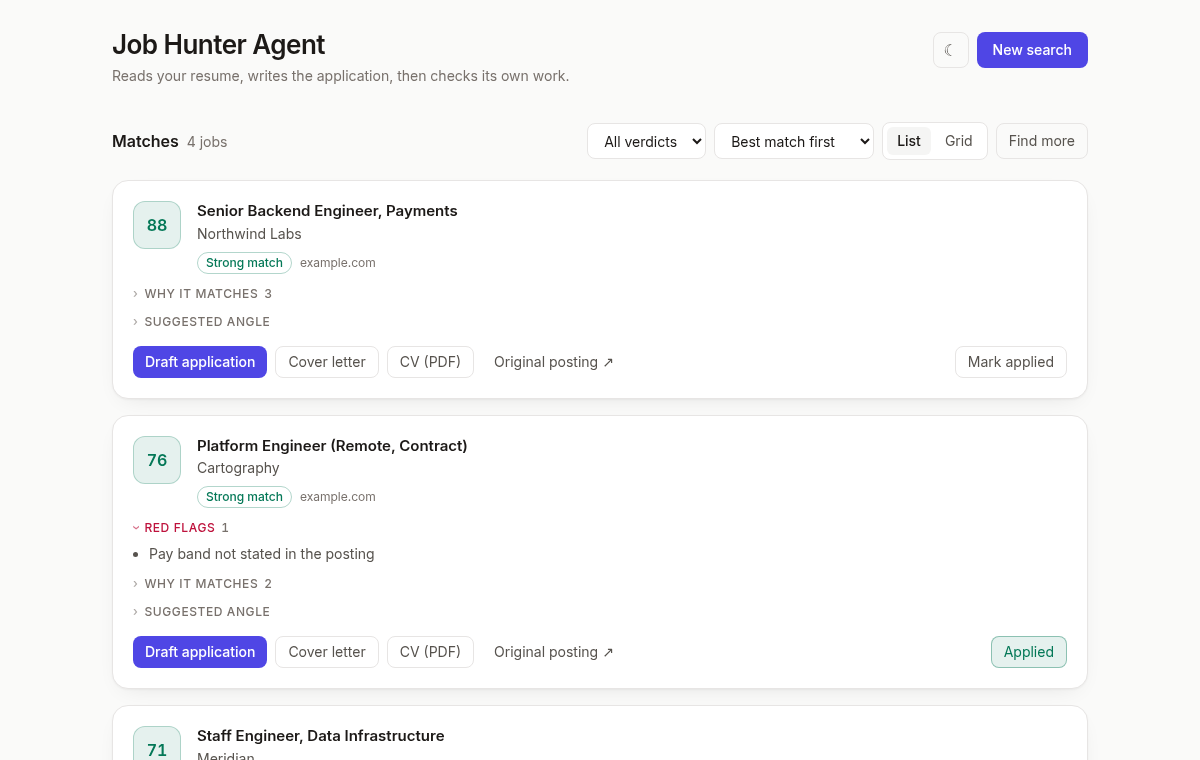
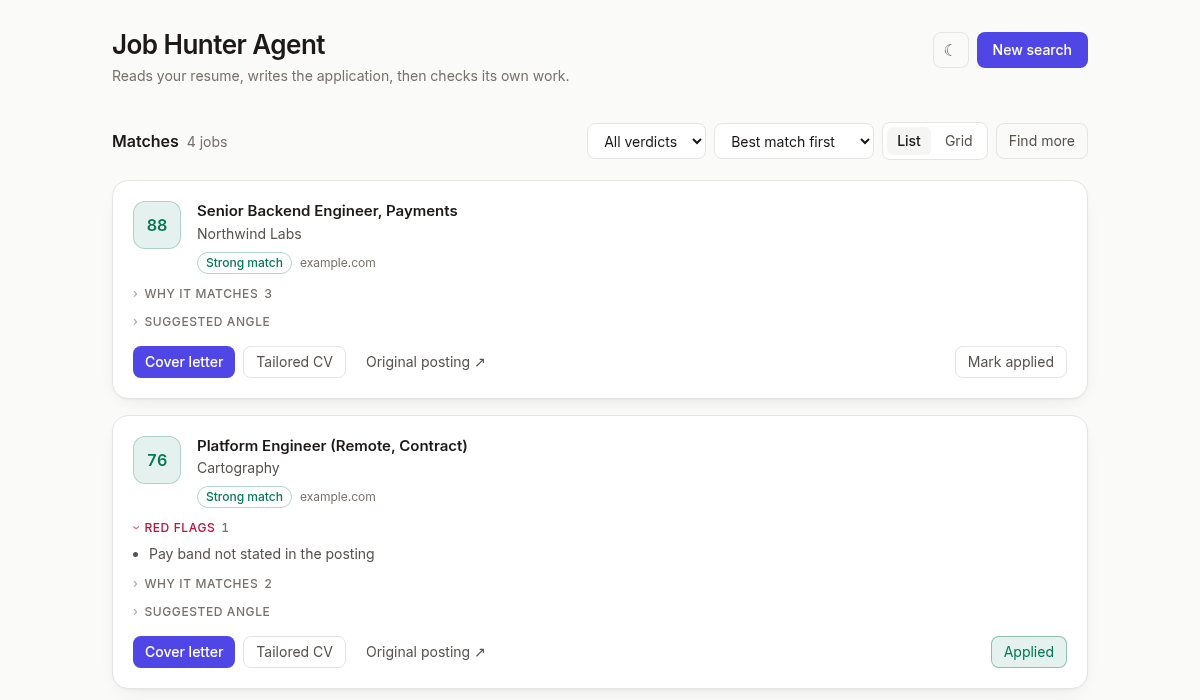
Rewrite the README for the current feature set, in plain English
Documents what changed over the last two sessions: the single Cover
letter button and its three states, Tailored CV, the difference between
Find more and New search (a new search discards the queue, which was
not written down anywhere), preferences, the writing-style rules, and
where every output file lands.

No em dashes anywhere, and plainer sentences throughout. Screenshots
regenerated for both themes since the button labels changed.

diff --git a/README.md b/README.md
@@ -2,26 +2,26 @@
 
 [![Buy Me a Coffee](https://img.shields.io/badge/Buy%20Me%20a%20Coffee-support%20this%20project-FFDD00?logo=buymeacoffee&logoColor=black)](https://buymeacoffee.com/YahyaZekry)
 
-Reads your resume, finds remote jobs worth applying to, and writes the application: a one-page PDF CV per job, and a cover letter on demand.
+Reads your resume, finds remote jobs worth applying to, and writes the application for you. Each match gets a CV rebuilt for that specific posting, and a cover letter whenever you ask for one.
 
-Then it checks its own work. A second Claude reads each letter with fresh context and cuts anything it can't trace back to a line in your resume.
+Then it checks its own work. A second Claude reads every letter with fresh context and removes anything it cannot find in your resume.
 
 <picture>
   <source media="(prefers-color-scheme: dark)" srcset="docs/dashboard-dark.png">
-  <img alt="The dashboard: scored job matches with per-job write, letter, and CV actions" src="docs/dashboard-light.png">
+  <img alt="The dashboard, showing scored job matches with a cover letter and tailored CV button on each card" src="docs/dashboard-light.png">
 </picture>
 
-Works for **any profession** — developer, designer, virtual assistant, writer, accountant. Roles, queries, scoring, and copy all come from your `resume.md`; nothing about your field is hardcoded.
+Works for any profession. Developer, designer, virtual assistant, writer, accountant. Your roles, search queries, scoring and copy all come from your `resume.md`, and nothing about your field is hardcoded.
 
-## Why the review matters
+## Why the fact-check matters
 
-LLMs embellish. On real runs this one caught:
+Language models embellish. On real runs this one caught:
 
-- **"four years"** — the resume said 2021–present, which is five
-- **"available full-time"** — the current role was listed as part-time
-- **a tool claimed as a core skill** — it appeared in the resume's skills list with no project behind it
+- **"four years"** when the resume said 2021 to present, which is five
+- **"available full-time"** when the current role was listed as part-time
+- **a tool claimed as a core skill** that appeared in the skills list with no project behind it
 
-Each is the kind of thing that falls apart in an interview. The reviewer sees only the posting, your resume, and the draft — not its own reasoning for writing it — so it has no stake in defending the text.
+Every one of those falls apart in an interview. The checker only sees three things: the job posting, your resume, and the letter. It never saw the letter being written, so it has no reason to defend it.
 
 ## Quick start
 
@@ -30,61 +30,99 @@ python -m venv .venv && .venv/bin/pip install -r requirements.txt
 cp .env.example .env     # add FIRECRAWL_API_KEY
 ```
 
-Drop your resume at `resume.md` (gitignored, never leaves your machine), then:
+Put your resume at `resume.md`. It is gitignored and never leaves your machine. Then:
 
 ```bash
 .venv/bin/python server.py    # → http://127.0.0.1:8000
 ```
 
-**Needs:** Python 3.10+, the [`claude` CLI](https://claude.com/claude-code) authenticated, a [Firecrawl](https://firecrawl.dev) key.
-**Optional:** [`typst`](https://github.com/typst/typst) for CVs, `pdftotext` (poppler) for the ATS check, an [Exa](https://exa.ai) key for pages Firecrawl can't reach.
+**You need:** Python 3.10+, the [`claude` CLI](https://claude.com/claude-code) signed in, and a [Firecrawl](https://firecrawl.dev) key.
 
-## How it works
+**Optional:** [`typst`](https://github.com/typst/typst) for CVs, `pdftotext` from poppler for the ATS check, and an [Exa](https://exa.ai) key for pages Firecrawl cannot reach.
+
+## How a run works
 
 | Step | What happens |
 |------|--------------|
-| **0. Find roles** | Claude reads your resume → target roles + key skills. You pick which ones this run covers. |
-| **1. Build queries** | Roles, skills, and your preferences → search queries, one per source. |
-| **2. Discover & scrape** | Firecrawl searches, then scrapes a batch of result pages into individual postings. |
-| **3. Score** | Every posting scored 0–100 against your profile: skills, seniority, remote signals, freshness, location, language, red flags. |
-| **4. CVs** | For each `apply` verdict, a Typst CV aimed at that posting, compiled to PDF and checked the way an ATS would read it. |
+| **0. Find roles** | Claude reads your resume and suggests target roles and key skills. You pick which ones this run covers. |
+| **1. Build queries** | Your roles, skills and preferences become search queries, one per source. |
+| **2. Discover and scrape** | Firecrawl searches, then scrapes a batch of result pages into individual job postings. |
+| **3. Score** | Every posting is scored 0 to 100 against your profile: skills, seniority, remote signals, freshness, location, language and red flags. |
+| **4. CVs** | Every job scoring 70 or above gets its own CV, compiled to PDF and checked the way an ATS would read it. |
 
-Cover letters aren't written in bulk. You ask for one job at a time, and it gets fact-checked before you see it — see below.
+Cover letters are not written in bulk. You ask for one job at a time, and it gets fact-checked before you ever see it.
 
-## Features
+## What each button does
 
-**Cover letter** — one button per job. If a letter exists it opens; if not, it offers to write one. Claude drafts it from your resume, then a second Claude that never saw it being written checks every claim against `resume.md` and removes what it can't find. You get the finished letter, a Copy button, and a collapsed "what was checked" section holding the claims that were cut, what the job asked for versus what you actually have, and the original draft.
+### Cover letter
 
-Everything is archived to `output/applications/<company>__<role>/` and tracked in `output/applications.csv`.
+If a letter already exists for that job, it opens. If not, you get a short explanation and a **Write it** button.
 
-**Find more jobs** — a search turns up far more pages than one run scrapes (46–168 in practice, 20 scraped). The rest are queued, not discarded. This scrapes the next batch: no repeated search, no page scraped twice, and copy already written is skipped. Cheaper than re-running. No single site takes more than 3 pages per batch, so one careers page can't eat the budget.
+Claude drafts the letter from your resume. A second Claude then reads it, checks every claim against `resume.md`, and removes what it cannot find. You end up with the finished letter, a Copy button, and a collapsed section called "what was checked" holding:
 
-**Preferences** — chips for employment type, pay/currency, and location, folded into both the queries *and* the scoring. "Worldwide Remote" and a specific country are mutually exclusive so they can't widen into "worldwide **or** Egypt". Note that typing a country searches *for* it — there's no exclude.
+- the claims that were removed, and why
+- what the job asked for against what you actually have, marked as *you have it*, *close enough, said honestly*, or *you do not have it*
+- the original draft, so you can see exactly what changed
 
-**Plain English** — the letter prompt bans em dashes, stock phrases ("passionate about", "proven track record"), and inflated vocabulary; the reviewer flags any that slip through, and a regex strips dashes as a last resort. Letters should read like a person emailing a stranger about a job.
+Gaps are fine. The checker only objects when a letter hides one.
 
-**Tailored CVs** — every `apply` job gets its own CV, rebuilt from `resume.md` for that posting. Same facts, different shape: the experience and skills the posting asks for move to the front, the rest is trimmed. Two real examples from one resume — an AI-evaluation role led with *Agentic AI: multi-agent systems, tool orchestration, agent evaluation*, while a React Native role from the same run led with *Mobile & Web: React Native, Expo, iOS/Android* and pulled the mobile app's test coverage up into a bullet. Nothing is invented; tailoring is selection and ordering only.
+Everything is saved to `output/applications/<company>__<role>/` and tracked in `output/applications.csv`.
 
-Overflow triggers one regeneration with instructions to cut the least relevant material. `templates/cv.typ` is the styling reference; edit it and preview with `typst compile templates/cv.typ`.
+### Tailored CV
 
-## Output
+Every job scoring 70 or above gets its own CV, rebuilt from `resume.md` for that posting. Same facts, different shape. The experience and skills the posting asks for move to the front, and the rest is trimmed.
 
-Everything lands in `output/` (gitignored):
+From one real run on the same resume:
 
-| Path | Contents |
-|------|----------|
+| Job | The CV led with |
+|-----|-----------------|
+| AI evaluation role | Agentic AI: multi-agent systems, tool orchestration, agent evaluation |
+| React Native role | Mobile and Web: React Native, Expo, iOS/Android |
+
+Nothing is invented. Tailoring means choosing and ordering, never adding. If a CV runs onto a second page it is rewritten once, told to cut the least relevant material.
+
+`templates/cv.typ` controls the styling. Edit it and preview with `typst compile templates/cv.typ`.
+
+### Find more
+
+A search finds far more pages than one run scrapes. In practice 46 to 168 found, 20 scraped. The rest are not thrown away, they sit in a queue.
+
+This button scrapes the next batch. No repeated search, no page scraped twice, and any letter or CV already written is skipped. That makes a second look cheaper than starting over. No single site gets more than 3 pages per batch, so one careers page cannot eat the whole budget.
+
+### New search
+
+Starts over: new queries, fresh discovery, fresh scraping. This replaces the queue, so anything left over from the last search is discarded. Use **Find more** instead if you just want more results from the search you already paid for.
+
+## Preferences
+
+Before a search you can set employment type, pay and currency, and location. These feed into both the search queries and the scoring.
+
+"Worldwide Remote" and a specific country are mutually exclusive, so they cannot combine into "worldwide or Egypt" and quietly widen your search. Note that typing a country searches *for* that country. There is no way to exclude one.
+
+## How the writing sounds
+
+The letter prompt bans em dashes, stock phrases like "passionate about" and "proven track record", and inflated words like "leverage" and "seamlessly". Sentences are capped at around 25 words. The checker flags anything that slips through, and a final pass strips any dash that survives both.
+
+The goal is a letter that reads like a person emailing a stranger about a job.
+
+## Where things are saved
+
+Everything lands in `output/`, which is gitignored:
+
+| Path | What is in it |
+|------|---------------|
 | `jobs.json` | Scored jobs |
 | `raw_jobs.json` | Everything scraped |
-| `page_queue.json` | Discovered pages + which are already scraped |
-| `cvs/` | Tailored `.typ` sources + compiled `.pdf`s |
-| `applications/<slug>/` | Archived posting, first draft, review, final letter |
-| `applications.csv` | The tracker |
+| `page_queue.json` | Pages found, and which have been scraped |
+| `cvs/` | Tailored `.typ` sources and compiled `.pdf` files |
+| `applications/<slug>/` | The saved posting, first draft, review, and final letter |
+| `applications.csv` | The tracker: date, company, role, status, score, file paths |
 
 ## Configuration
 
-`config.json` sets where the agent searches — `job_boards` (one query each) and `reddit_groups` (grouped, with optional `extra_terms`). Defaults are globally remote-first with no region-specific boards.
+`config.json` sets where the agent searches. `job_boards` gets one query each, and `reddit_groups` are searched as groups with optional extra terms. The defaults are remote-first worldwide with no region-specific boards.
 
-If your field has dedicated boards, add them. Note that `job_boards` are queried every run regardless of your location preference, so a region-tied board keeps surfacing that region no matter what you type.
+Add your own if your field has dedicated boards. One thing to know: `job_boards` are searched every run no matter what location you set, so a board tied to one region keeps surfacing that region regardless.
 
 ## Development
 
@@ -94,20 +132,21 @@ If your field has dedicated boards, add them. Note that `job_boards` are queried
 ```
 
 ```
-agent.py          # the whole pipeline + the apply stage
-server.py         # FastAPI, SSE for progress
+agent.py          # the whole pipeline plus the letter flow
+server.py         # FastAPI, server-sent events for progress
 ui/index.html     # single-file dashboard, no build step
 prompts/          # one Claude prompt per step
 templates/cv.typ  # CV layout
 ```
 
-`.project-knowledge/` holds the living docs — architecture, schema, decisions, and a roadmap of known limits.
+`.project-knowledge/` holds the living docs: architecture, data shapes, past decisions and a roadmap of known limits.
 
 ## Known limits
 
-- Listing pages often yield teaser-length descriptions; the full text isn't on the page to scrape
-- LinkedIn returns nothing usable through Firecrawl or Exa
-- `posted_date` arrives as free text ("11 months ago") and feeds the freshness rule unnormalized
+- Listing pages often give short teaser descriptions, because the full text is not on the page to scrape
+- LinkedIn returns nothing usable through either Firecrawl or Exa
+- `posted_date` arrives as free text like "11 months ago" and feeds the freshness rule without being normalised
+- Nothing in the UI shows what was tailored in a CV, so the work stays invisible unless you compare two of them
 
 ## Support
 
@@ -115,10 +154,21 @@ Built while job hunting, and it runs on a Claude Code subscription plus Firecraw
 
 [![Buy Me a Coffee](https://img.shields.io/badge/Buy%20me%20a%20coffee-FFDD00?logo=buymeacoffee&logoColor=black)](https://buymeacoffee.com/YahyaZekry)
 
-## Credits & license
+## Credits and license
 
-MIT. Originally created by [Kurt De Austria](https://github.com/Kurt-Chan) as [ai-job-scraper](https://github.com/Kurt-Chan/ai-job-scraper) — the pipeline shape is his. Substantially extended since: CV generation, the drafter-reviewer flow, the application tracker, and the discovery/scrape rework.
+MIT. Originally created by [Kurt De Austria](https://github.com/Kurt-Chan) as [ai-job-scraper](https://github.com/Kurt-Chan/ai-job-scraper). The pipeline shape is his. Substantially extended since then with CV generation, the fact-checked letter flow, the application tracker, and the rework of how discovery and scraping relate.
 
-Both copyright notices are preserved in [`LICENSE`](LICENSE), as MIT requires.
+Both copyright notices are kept in [`LICENSE`](LICENSE), as MIT requires.
 
-Stars, issues, and PRs appreciated. ☕
+Stars, issues and pull requests are all appreciated.
+
+---
+
+<details>
+<summary>🧠 AI Context</summary>
+
+This project uses the [project-knowledge](https://github.com/YahyaZekry/project-knowledge-skill) skill to maintain a `.project-knowledge/` folder, a living, AI-readable map of the codebase. Every AI session loads only the files relevant to the current task instead of scanning from scratch.
+
+Built by [Yahya Zekry](https://github.com/YahyaZekry/project-knowledge-skill).
+
+</details>

diff --git a/.project-knowledge/sessions.md b/.project-knowledge/sessions.md
@@ -10,3 +10,4 @@
 | 2026-08-16 | No repo code changed — design + toolchain exploration only. Audited MadsLorentzen/ai-job-search (MIT-licensed, 31.8k★ Claude Code job-application framework) and identified what it has that this project lacks: a drafter-reviewer apply loop, CV generation, an application tracker, and PDF/ATS verification. Sketched an adapted apply-flow design (3 new prompt files, `POST /api/apply` SSE endpoint, `output/applications.csv` tracker + archived postings, grounding audit, requirement coverage, language gate) and committed to building CV generation + PDF-compile + ATS verification as our own implementation. Test-drove LaTeX vs Typst for CVs: installed Typst (→ `~/.local/bin`) and portable TinyTeX (→ `~/.TinyTeX`) without sudo, copied Font Awesome 5 fonts to `~/.local/share/fonts`, and styled a Typst CV with section rules + FA icons — using PNG pixel analysis (numpy/PIL) to catch Typst's phantom `par.spacing` gaps. Findings logged in history.md; toolchain decision pending user's render comparison. |
 | 2026-08-16 | Still no repo code changed — continued the Typst CV demo (`/tmp/opencode/cv-demo/cv.typ`). Fixed the two remaining layout complaints: oversized gaps around each section rule (cause: bare `line()` is inline, so the rule formed its own paragraph and inherited its line-box height + leading — fixed with `block(spacing: 0pt, line(...))`) and cramped bullet spacing (cause: `list.spacing` is ignored by tight lists — fixed with `tight: false`). Render now fits one page with even spacing. Gotchas appended to history.md. **User approved the render — Typst is the CV toolchain, LaTeX dropped.** Template moved out of `/tmp` into the repo at `templates/cv.typ`. Then **built the CV stage for real**: `prompts/cv.md`, `generate_cvs()`/`_compile_cv()`/`_verify_cv()` in `agent.py` wired as pipeline step 5, `GET /api/cv` serving the PDF, a CV link on each job card, and a 5th step in the UI progress bar. Verified end-to-end against a synthetic non-developer resume (virtual assistant) in a scratch dir — one-page PDF, clean ATS text layer. Two fixes came out of that run: the template's Skills `grid` extracted column-by-column (all labels, then all values) so it became one line per category, and Typst's `~` non-breaking space silently ate "~120 invoices" so the prompt now lists it among the characters to escape. 48 tests passing (up from 40). Then took the rest of the roadmap to done in the same session: language gate in `prompts/analyze.md`, keyword-coverage reporting + a one-page retry for CVs, the **drafter-reviewer apply stage** (`prompts/apply_draft.md`/`apply_review.md`, `apply_to_job()`, `GET /api/apply` SSE, side-by-side modal), and the **application tracker + posting archive** (`output/applications.csv` + `output/applications/<slug>/`). Driving the apply stage through a real browser exposed that `analyze.md` never carries `description` into `jobs.json` — CVs and reviews had been running blind to the posting text — fixed with `_scraped_description()`. Verified end-to-end via the running server: reviewer caught a fabricated "four years" and an Airtable overclaim, coverage went from 1 requirement to 7 once the posting text was restored. 72 tests passing. Then ran it for real against the user's actual resume (`resume.md`, gitignored): role/skill extraction and query building are genuine Claude output; a real posting (n8n Community, $1,500/mo remote n8n AI automation developer) was fetched by hand via WebFetch to stand in for step 2, since no `FIRECRAWL_API_KEY` exists on this machine. Scoring gave it 88/apply with accurate reasons; the CV came out one page with a clean text layer; the reviewer caught "I'm available remote, full-time" as unsupported (the resume's current role is explicitly Part-Time) and cut it. The real run also exposed that the CV keyword check was reporting 59 junk terms — narrowed to posting terms the resume supports but the CV omitted, which drops it to one. 73 tests passing. Finally ran the **whole pipeline for real** once the Firecrawl/Exa keys were available: 9 queries → 73 pages discovered → 20 scraped → scored → letters + CVs. First real run produced **0 jobs above threshold**, which turned out to be a genuine defect rather than a bad market: `EXTRACT_PROMPT` asked for "a short description" and Firecrawl returned a median of 119 characters per posting, so Claude was scoring against blurbs. Rewrote it to demand the posting's own text; re-ran: 168 postings, 20 kept, **10 above threshold**, 10 one-page CVs with clean text layers, 10 cover letters. Also caught (before committing) that real API keys had been put into the tracked `.env.example` — never committed, moved to `.env` by the user. 73 tests passing. Comparing the two real runs then surfaced a bigger problem than the extract prompt: the n8n Community hiring post that scored 88 in run 1 was **absent from run 2 entirely** — discovery finds 46–168 pages, only 20 get scraped, and which 20 is luck of the draw; separately one careers page contributed 30 of 168 postings and half the apply verdicts. Fixed both on the user's own suggestion of a "next page" model: every discovered page is now persisted to `output/page_queue.json`, a **Find more jobs** button scrapes the next batch (never repeating a page, no new search), and `MAX_PAGES_PER_DOMAIN = 3` stops any one site dominating a batch. Cover letters and CVs already written are skipped so a second pass doesn't re-pay for them. Verified against real discovery with scraping stubbed out (zero scrape spend): batch 1 spread across 12 domains instead of 3, batch 2 overlapped batch 1 by zero pages. 84 tests passing. |
 | 2026-08-26 | UI/UX audit and redesign. Replaced the generic Tailwind grey/blue palette with a token-based design system (CSS custom properties, light + dark, a persisted toggle), Inter + Newsreader typography, and a rebuilt job card that leads with the score and puts Apply as the one primary action. Audit turned up a real bug: job data interpolated into `onclick` attributes meant an apostrophe in a company name ("Lowe's") broke every button on that card — now delegated via `data-*`. Also fixed the score badge using 80/60 thresholds against the pipeline's 70, the Apply verdict colliding with the Apply button, all disclosures rendering open, and a complete absence of focus styles. Screenshots regenerated for both themes. 84 tests still passing. | Follow-up pass on four issues found by using it: uneven grid card heights (`items-start`), no fade on theme switch (custom properties can't transition — the rule has to target the consuming elements), no way back to setup without paying for a fresh resume analysis (now cached, with explicit back and re-read controls), and action buttons whose labels didn't say what they did. | Then, prompted by the user finding the apply modal confusing, discovered and fixed a genuine design flaw: **two unrelated cover letters per job**. Removed pipeline step 4 entirely so letters are written only on demand by the apply stage, pointed `/api/cover-letter` at the fact-checked letter, and rewrote the modal copy to explain the two-Claude mechanism in plain words. Also rewrote the letter prompts for plain English: no em dashes, short sentences, no stock phrases, with a regex backstop. Verified on a real job — the new letter names an honest gap in four short paragraphs with zero dashes. 84 tests passing. | Finally merged the two per-card letter buttons into one **Cover letter** button with a three-state modal (nothing yet / writing / the letter plus a collapsed "what was checked"), extended `/api/cover-letter` to return the draft and review so those checks survive across sessions, and renamed **CV (PDF)** to **Tailored CV**. Also found the running uvicorn had been serving pre-edit code all along, and a duplicate `renderReview` left by an earlier edit that would have shadowed the new one. |
+| 2026-08-27 | Rewrote the README in plain English with no em dashes, documenting the features added over the previous two sessions: the single Cover letter button and its three-state modal, Tailored CV, Find more vs New search (including that a new search discards the queue), the preference chips, the writing-style rules, and where every output file lands. Regenerated both theme screenshots to match the new button labels. Added the project-knowledge attribution block. Also confirmed for the user that CVs really are tailored per posting, with evidence from two CVs off the same resume, and logged the fact that nothing in the UI makes that visible. |

diff --git a/.project-knowledge/features.md b/.project-knowledge/features.md
@@ -1,6 +1,6 @@
 # Features & Workflows
 
-> Part of job-hunter-agent/.project-knowledge/ | Last updated: 2026-08-16
+> Part of job-hunter-agent/.project-knowledge/ | Last updated: 2026-08-27
 
 ## Features
 
@@ -10,8 +10,8 @@
 - **Discover + scrape pipeline** — search results are deduped by canonical URL (regional/`www.` subdomains collapsed), interleaved round-robin across queries, then each candidate page is scraped: Firecrawl first, Exa as a fallback for pages Firecrawl can't reach (LinkedIn, Reddit), then the search snippet as a last resort.
 - **AI scoring** — every scraped posting scored 0–100 against the resume and any run preferences (skills, seniority, remote signals, freshness, red flags, location/pay/employment-type fit); only score ≥ 60 kept, verdict `apply | review | skip`.
 - ~~**Auto cover letters**~~ — removed 2026-08-26. Bulk-writing an unreviewed letter per job produced a second, unrelated letter for every job the apply stage also covered. Letters now come only from **Write + fact-check**, on demand.
-- **Tailored CVs (Typst → PDF → ATS check)** — for the same `apply`-verdict jobs that get a cover letter, Claude writes a full Typst CV aimed at that posting, using `resume.md` for content and `templates/cv.typ` for styling. `agent.py` writes `output/cvs/<slug>.typ`, compiles it with the `typst` binary, then runs `pdftotext` on the result and warns if the text layer is nearly empty, has no email, or spills past one page. The prompt forbids inventing anything not in the resume — tailoring is selection and phrasing only. Downloadable from each job card via `GET /api/cv`.
-- **Drafter-reviewer apply stage** — the Apply button on a job card opens a modal and streams a three-phase run: Claude drafts a cover letter grounded strictly in `resume.md`, a second fresh-context call reviews it for invented claims and requirement coverage, then the reviewer's edits are applied mechanically. The modal shows the initial draft and the revised letter side by side, plus a coverage table (matched/bridged/gap) and any claims the reviewer couldn't find in the resume. In testing it caught a fabricated "four years" (the resume says 2021–present) and an Airtable overclaim. Everything is archived under `output/applications/<slug>/`.
+- **Tailored CVs (Typst, PDF, ATS check)** — for the same `apply`-verdict jobs that get a cover letter, Claude writes a full Typst CV aimed at that posting, using `resume.md` for content and `templates/cv.typ` for styling. `agent.py` writes `output/cvs/<slug>.typ`, compiles it with the `typst` binary, then runs `pdftotext` on the result and warns if the text layer is nearly empty, has no email, or spills past one page. The prompt forbids inventing anything not in the resume — tailoring is selection and phrasing only. Downloadable from each job card via `GET /api/cv`.
+- **Cover letter with fact-check** — one button per job card. If a letter exists it opens; if not, the modal explains what will happen and offers a Write it button. Streams a three-phase run: Claude drafts a cover letter grounded strictly in `resume.md`, a second fresh-context call reviews it for invented claims and requirement coverage, then the reviewer's edits are applied mechanically. The modal leads with the finished letter plus a Copy button, and collapses the verification into a "what was checked" section holding the removed claims, a requirement table phrased as *you have it* / *close enough, said honestly* / *you do not have it*, and the pre-review draft. `/api/cover-letter` returns all three so the checks survive across sessions. In testing it caught a fabricated "four years" (the resume says 2021–present) and an Airtable overclaim. Everything is archived under `output/applications/<slug>/`.
 - **"Find more jobs"** — a search turns up far more pages than one run scrapes (46–168 seen in practice, 20 scraped). Rather than discarding the rest, every discovered page is saved to `output/page_queue.json` and the button scrapes the *next* batch on demand: no repeated search, no page scraped twice, and cover letters/CVs already written are skipped rather than regenerated. Keeps a second look cheaper than a second run.
 - **Per-domain scrape cap** — no single site may take more than `MAX_PAGES_PER_DOMAIN` (3) slots in a batch, so one listing-heavy careers page can't eat the whole budget. On a real run this took batch coverage from 3 domains to 12.
 - **Application tracker** — `output/applications.csv` gets a row per drafted application (date, company, role, status, fit score, CV path, cover-letter path, URL), keyed by job URL so re-drafting updates rather than duplicates. Marking a job applied/skipped in the UI updates its row.

diff --git a/.project-knowledge/INDEX.md b/.project-knowledge/INDEX.md
@@ -1,12 +1,12 @@
 # Job Hunter Agent — Knowledge Index
 
-> Last updated: 2026-08-16
+> Last updated: 2026-08-27
 > Status: Active
 > Stack: Python + FastAPI + Firecrawl + Exa (fallback) + Claude Code CLI (subprocess) + vanilla JS/Tailwind + Typst (CV rendering)
-> Current goal: Nothing blocking — the full pipeline plus the apply stage has run end to end on real scraped postings. Open work is scrape quality (thin listing-page descriptions, LinkedIn yielding nothing, unnormalized `posted_date`). See roadmap.md
+> Current goal: Nothing blocking. The full pipeline and the letter flow have run end to end on real scraped postings, and the UI has been redesigned and audited. Open work is scrape quality plus making CV tailoring visible in the UI. See roadmap.md
 
 ## What This Project Does
-An autonomous, profession-agnostic job-hunting pipeline. It reads a user-supplied `resume.md`, derives search queries with Claude, discovers and scrapes remote job postings via Firecrawl, scores each against the resume, and drafts cover letters plus tailored Typst/PDF CVs for the best matches. A per-job apply stage then has a second Claude call review the letter for invented claims and requirement coverage before you send it — all reviewable in a local single-file web dashboard.
+An autonomous, profession-agnostic job-hunting pipeline. It reads a user-supplied `resume.md`, derives search queries with Claude, discovers and scrapes remote job postings via Firecrawl, scores each against the resume, and builds a tailored Typst/PDF CV for every strong match. Cover letters are written one job at a time on demand, and a second Claude call checks each one for invented claims and requirement coverage before you ever see it. All reviewable in a local single-file web dashboard.
 
 ---
 
